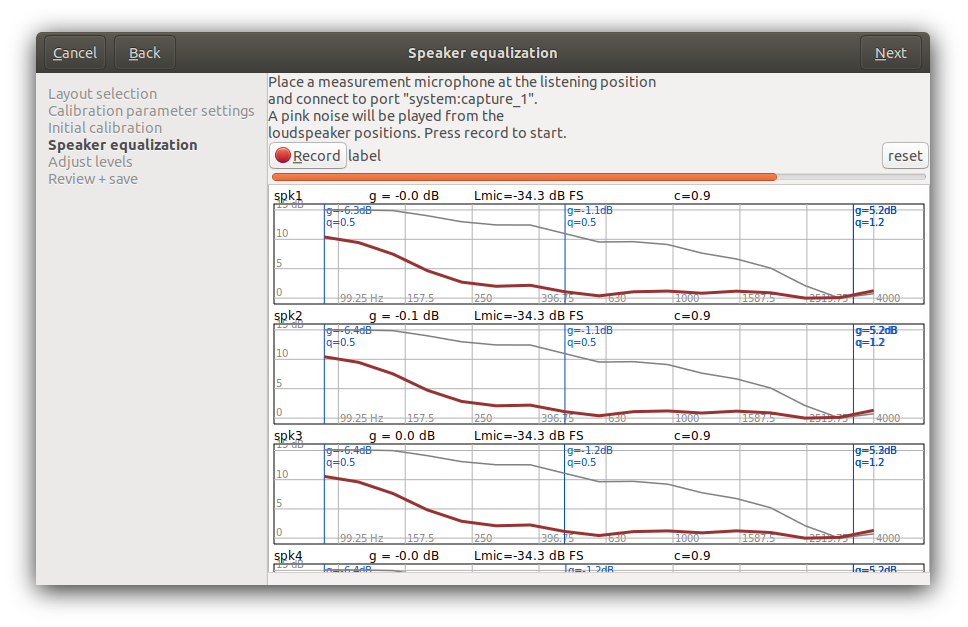
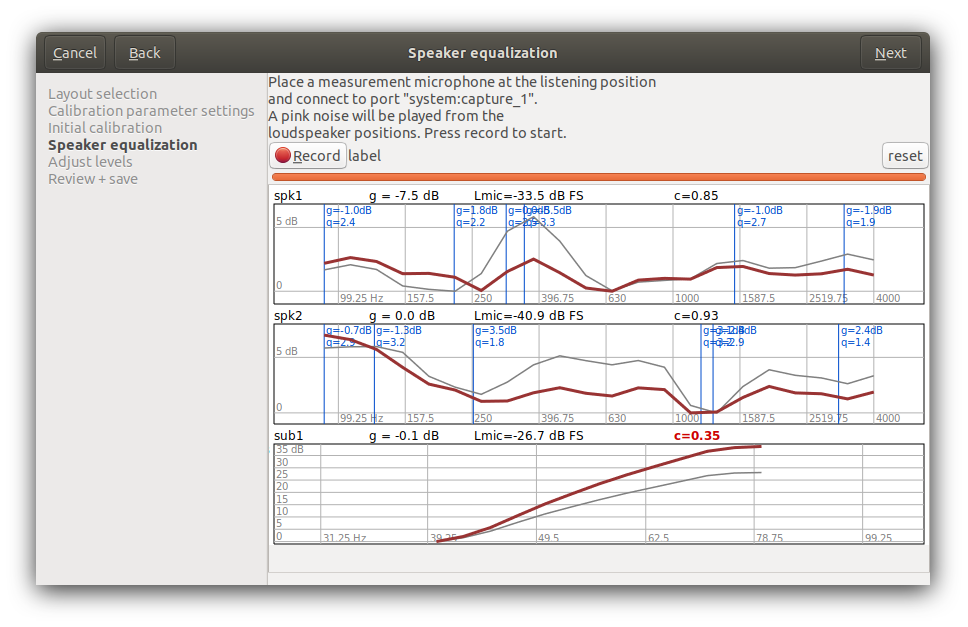
improve gui, increase number of iterations

Changed region(s): [[0.2789, 0.2727, 0.9607, 0.9091]]

diff --git a/libtascar/include/filterclass.h b/libtascar/include/filterclass.h
@@ -353,13 +353,15 @@ namespace TASCAR {
        @param vF Frequencies at which a gain value is provided.
        @param vG Gain values in dB.
        @param fs Sampling rate in Hz.
+       @param numiter Maximum number of iterations.
        @return Resulting gains in dB.
 
        vF.size() and vG.size() must be equal and at least 3*numflt+1.
      */
     std::vector<float> optim_response(size_t numflt, float maxq,
                                       const std::vector<float>& vF,
-                                      const std::vector<float>& vG, float fs);
+                                      const std::vector<float>& vG, float fs,
+                                      size_t numiter = 1000);
     /**
        @brief Return gain response in dB
        @param f Frequencies in Hz

diff --git a/libtascar/src/filterclass.cc b/libtascar/src/filterclass.cc
@@ -565,7 +565,7 @@ float TASCAR::multiband_pareq_t::optim_error_fun(const std::vector<float>& par)
 
 std::vector<float> TASCAR::multiband_pareq_t::optim_response(
     size_t numflt, float maxq, const std::vector<float>& vF,
-    const std::vector<float>& vG, float fs)
+    const std::vector<float>& vG, float fs, size_t numiter)
 {
   if(numflt < 1)
     throw TASCAR::ErrMsg(
@@ -651,7 +651,6 @@ std::vector<float> TASCAR::multiband_pareq_t::optim_response(
   optimpar2fltsettings(par, fs);
   float err = 10000000.0f;
   float eps = 1.0f;
-  size_t numiter = 1000;
   for(size_t k = 0; k < numiter; ++k) {
     float nerr = downhill_iterate(eps, par, mbeqerrfun, this, step);
     if(nerr > err)

diff --git a/gui/src/tascar_spkcalib.cc b/gui/src/tascar_spkcalib.cc
@@ -203,7 +203,7 @@ bool spkeq_display_t::on_draw(const Cairo::RefPtr<Cairo::Context>& cr)
     cr->select_font_face("", Cairo::FONT_SLANT_NORMAL, Cairo::FONT_WEIGHT_BOLD);
   }
   cr->move_to(405, 15);
-  s = std::string("c=") + TASCAR::to_string(coh, "%1.1f");
+  s = std::string("c=") + TASCAR::to_string(coh, "%1.2f");
   cr->show_text(s.c_str());
   cr->restore();
   //
@@ -732,6 +732,7 @@ void spkcalib_t::on_reclevels()
     if(guiupdater.joinable())
       guiupdater.join();
     insert_action_group("calib", refActionGroupCalib);
+    rec_progress->set_fraction(1.0);
     update_equal_gui();
     manage_act_grp_save();
   }

diff --git a/libtascar/src/calibsession.cc b/libtascar/src/calibsession.cc
@@ -621,7 +621,7 @@ void get_levels_(spk_array_t& spks, TASCAR::Scene::src_object_t& src,
       float maxq = std::max(1.0f, (float)vF.size()) /
                    log2f(calibpar.fmax / calibpar.fmin);
       eq.optim_response((size_t)numflt, maxq, vF, vG,
-                        (float)jackrec.get_srate());
+                        (float)jackrec.get_srate(), 2000u);
       report.eq_f = eq.get_f();
       report.eq_g = eq.get_g();
       report.eq_q = eq.get_q();
